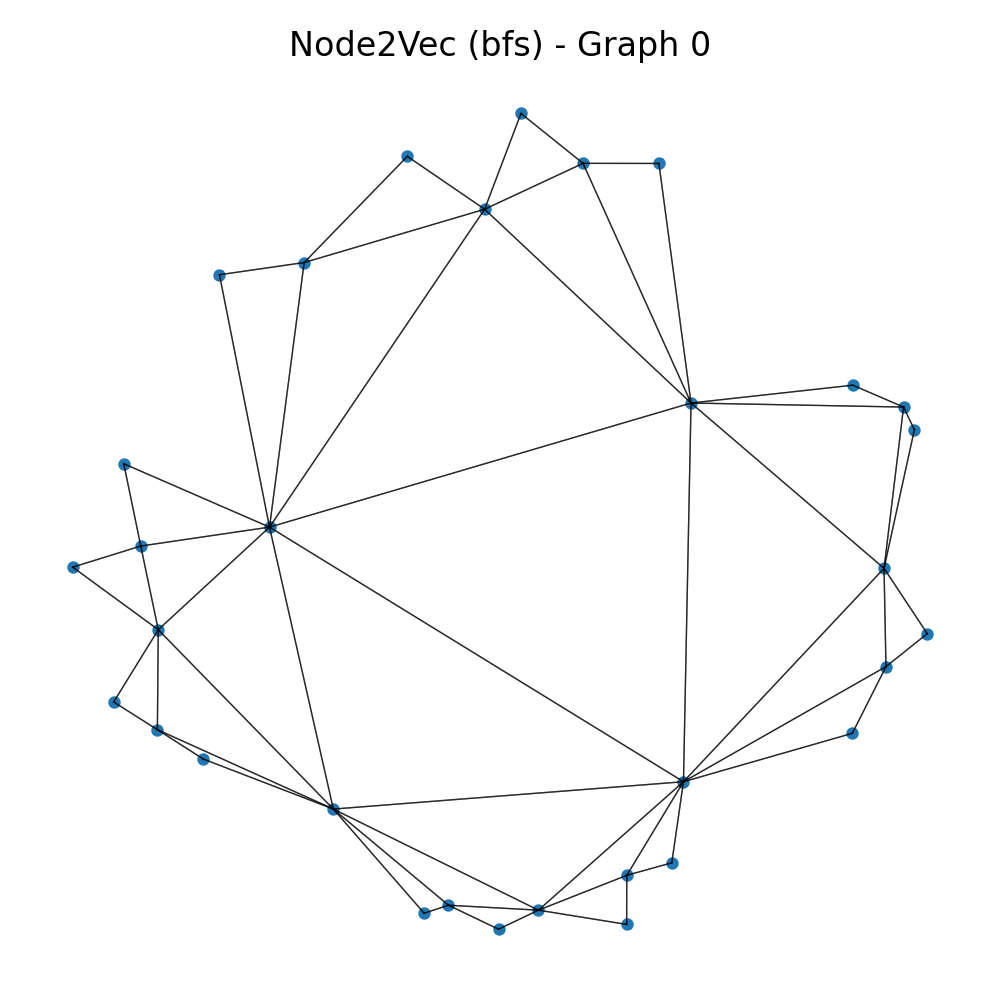
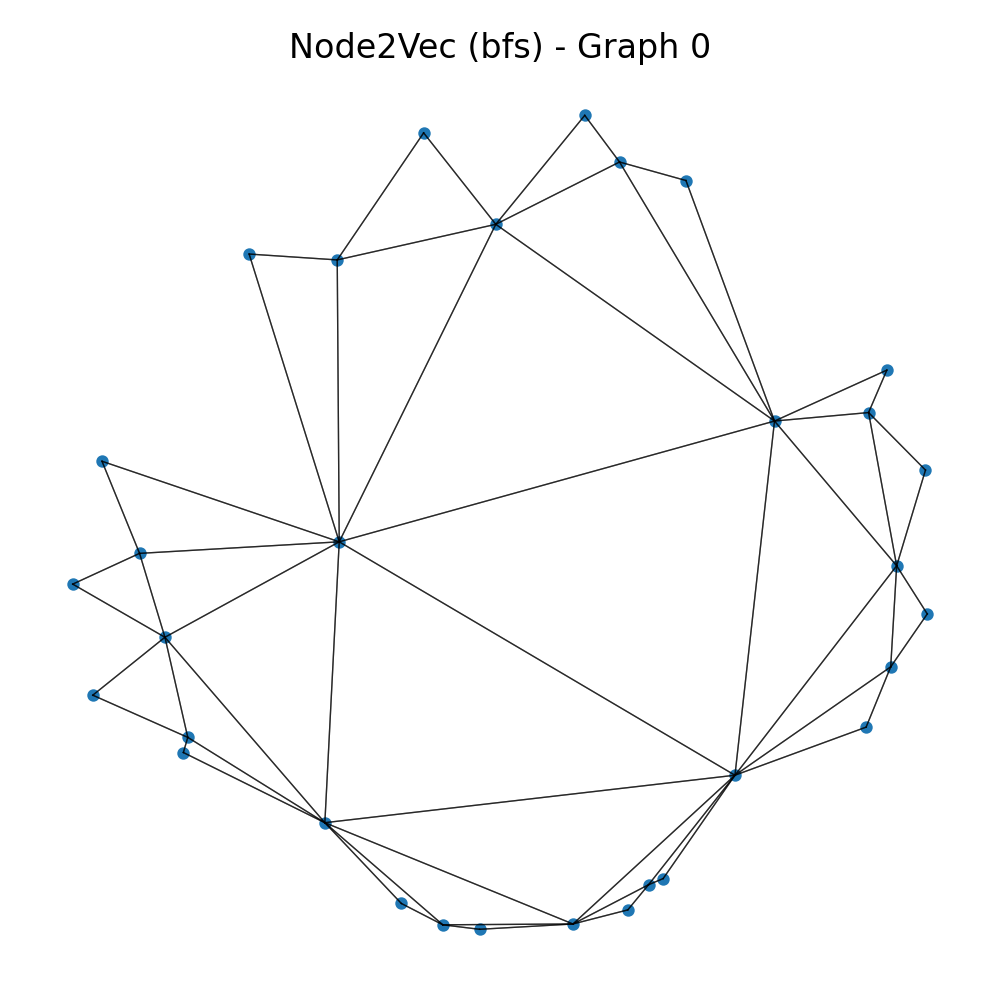
screnshot removed

diff --git a/A1.tex b/A1.tex
@@ -59,7 +59,7 @@ The code is attached in Listing 1 in the appendix.
 \section{Part B: Visualizing the graph}
 \begin{figure}[H]
     \centering
-    \includegraphics[width=1\linewidth]{Screenshot 2026-01-27 at 7.46.20 PM.png}
+    \includegraphics[width=0.85\linewidth]{karate_club_graph.png}
     \vspace{0.5em}
 
     \begin{tabular}{llll}
@@ -79,9 +79,9 @@ We take the normalized structural feature matrix from C1 and reduce it to 2D usi
 
 \begin{figure}[H]
     \centering
-    \includegraphics[width=0.75\linewidth]{Screenshot 2026-01-30 at 7.40.23 PM.png}
+    \includegraphics[width=0.75\linewidth]{structural_pca.png}
     \caption{PCA of structural features; colors indicate the node labels.}
-    \label{fig:placeholder}
+    \label{fig:struct_pca}
 \end{figure}
 
 \subsection{C3. Node classification using structural features}
@@ -106,9 +106,9 @@ We reduce the node features to 2D using PCA and color by node labels. The visual
 
 \begin{figure}[H]
     \centering
-    \includegraphics[width=0.75\linewidth]{Screenshot 2026-01-30 at 10.19.43 PM.png}
+    \includegraphics[width=0.75\linewidth]{node_features_pca.png}
     \caption{PCA of node features; colors indicate the node labels.}
-    \label{fig:placeholder}
+    \label{fig:node_feat_pca}
 \end{figure}
 
 \section{Part E: Combining structure and node features}
@@ -148,6 +148,13 @@ The implementation is shown in Listing~\ref{lst:f1}.
 \section{2. Node2Vec vs Struct2Vec on GeometricShapes}
 \subsection{Part A: Load graphs and visualize the original geometry}
 We load the GeometricShapes dataset with \texttt{FaceToEdge} to populate \texttt{edge\_index}, select three graphs (indices 0, 1, 2), and plot their original geometry using \texttt{data.pos} with edges drawn from \texttt{data.edge\_index}.
+\begin{figure}[H]
+    \centering
+    \includegraphics[width=0.32\linewidth]{geometric_shapes_graph0.png}
+    \includegraphics[width=0.32\linewidth]{geometric_shapes_graph1.png}
+    \includegraphics[width=0.32\linewidth]{geometric_shapes_graph2.png}
+    \caption{Original geometry for GeometricShapes graphs 0, 1, and 2 (left to right).}
+\end{figure}
 
 \subsection{Part B: Node2Vec embeddings and visualization}
 \subsubsection{B1. Implement biased random walks}
@@ -156,6 +163,24 @@ We implement the Node2Vec transition rule on an undirected graph and use $p=10$.
 For each node, we generate multiple walks with a fixed length of 20 (10 walks per node in our runs) to build the skip-gram training corpus.
 \subsubsection{B3. Learn embeddings}
 We train a skip-gram model with negative sampling to produce 2D embeddings ($d=2$). We run Node2Vec with two settings: BFS-like walks ($q=0.5$) and DFS-like walks ($q=5$), then plot the graph using the learned embedding coordinates and the same edges.
+\begin{figure}[H]
+    \centering
+    \includegraphics[width=0.49\linewidth]{node2vec_graph0_bfs.png}
+    \includegraphics[width=0.49\linewidth]{node2vec_graph0_dfs.png}
+    \caption{Node2Vec embeddings for graph 0 (left: BFS-like, right: DFS-like).}
+\end{figure}
+\begin{figure}[H]
+    \centering
+    \includegraphics[width=0.49\linewidth]{node2vec_graph1_bfs.png}
+    \includegraphics[width=0.49\linewidth]{node2vec_graph1_dfs.png}
+    \caption{Node2Vec embeddings for graph 1 (left: BFS-like, right: DFS-like).}
+\end{figure}
+\begin{figure}[H]
+    \centering
+    \includegraphics[width=0.49\linewidth]{node2vec_graph2_bfs.png}
+    \includegraphics[width=0.49\linewidth]{node2vec_graph2_dfs.png}
+    \caption{Node2Vec embeddings for graph 2 (left: BFS-like, right: DFS-like).}
+\end{figure}
 
 \subsection{Part C: Struct2Vec embeddings and visualization (fixed k=3)}
 \subsubsection{C1. Structural similarity function $g_k(u,v)$}
@@ -200,6 +225,8 @@ print(f"Number of node labels/classes: {dataset.num_classes}")
 
 \section{Graph Visualization Code}
 \begin{lstlisting}[language=Python,caption={Part A graph visualization}]
+import matplotlib
+matplotlib.use("Agg")
 import matplotlib.pyplot as plt
 import networkx as nx
 from torch_geometric.datasets import KarateClub
@@ -214,24 +241,35 @@ G = to_networkx(data, to_undirected=True)
 # Node colors based on labels
 labels = data.y.tolist()
 
+# Define colors to match the figure legend
+color_map = {
+    0: "#66C2A5",
+    1: "#FC8D62",
+    2: "#8DA0CB",
+    3: "#FFD92F",
+}
+node_colors = [color_map[label] for label in labels]
+
 # Draw the graph
 pos = nx.spring_layout(G, seed=42)
 plt.figure(figsize=(6, 5))
 nx.draw(
     G,
     pos,
-    node_color=labels,
-    cmap=plt.cm.Set2,
+    node_color=node_colors,
     with_labels=True,
     node_size=400,
     font_size=8,
 )
 plt.title("Karate Club Graph")
-plt.show()
+plt.tight_layout()
+plt.savefig("karate_club_graph.png", dpi=300)
 \end{lstlisting}
 
 \section{GeometricShapes Visualization Code}
 \begin{lstlisting}[language=Python,caption={GeometricShapes visualization (Part 2A)}]
+import matplotlib
+matplotlib.use("Agg")
 import matplotlib.pyplot as plt
 import numpy as np
 from torch_geometric.datasets import GeometricShapes
@@ -263,6 +301,7 @@ def plot_graph(data, idx):
 
     ax.set_title(f"GeometricShapes graph {idx}")
     ax.axis("off")
+    return fig
 
 
 # Load dataset with FaceToEdge so edge_index is populated
@@ -273,9 +312,10 @@ dataset = GeometricShapes(root="data/GeometricShapes", pre_transform=transform)
 # Pick any 3 graphs
 indices = [0, 1, 2]
 for idx in indices:
-    plot_graph(dataset[idx], idx)
-
-plt.show()
+    fig = plot_graph(dataset[idx], idx)
+    fig.tight_layout()
+    fig.savefig(f"geometric_shapes_graph{idx}.png", dpi=200)
+    plt.close(fig)
 \end{lstlisting}
 
 \section{Node2Vec (Biased Walks + Skip-gram) Code}
@@ -285,6 +325,8 @@ import numpy as np
 import torch
 import torch.nn.functional as F
 from torch import nn, optim
+import matplotlib
+matplotlib.use("Agg")
 import matplotlib.pyplot as plt
 from torch_geometric.datasets import GeometricShapes
 from torch_geometric.transforms import FaceToEdge
@@ -702,6 +744,8 @@ if __name__ == "__main__":
 \section{Structural Embeddings Visualization Code}
 \begin{lstlisting}[language=Python,caption={Part C2 PCA visualization}]
 import numpy as np
+import matplotlib
+matplotlib.use("Agg")
 import matplotlib.pyplot as plt
 import matplotlib.colors as mcolors
 from torch_geometric.datasets import KarateClub
@@ -800,7 +844,7 @@ def main():
 
     plt.tight_layout()
     plt.savefig("structural_pca.png", dpi=200)
-    plt.show()
+    plt.close()
 
 
 if __name__ == "__main__":

diff --git a/geometric_shapes_partA.py b/geometric_shapes_partA.py
@@ -1,3 +1,5 @@
+import matplotlib
+matplotlib.use("Agg")
 import matplotlib.pyplot as plt
 import numpy as np
 from torch_geometric.datasets import GeometricShapes
@@ -29,6 +31,7 @@ def plot_graph(data, idx):
 
     ax.set_title(f"GeometricShapes graph {idx}")
     ax.axis("off")
+    return fig
 
 
 # Load dataset with FaceToEdge so edge_index is populated
@@ -39,6 +42,7 @@ dataset = GeometricShapes(root="data/GeometricShapes", pre_transform=transform)
 # Pick any 3 graphs
 indices = [0, 1, 2]
 for idx in indices:
-    plot_graph(dataset[idx], idx)
-
-plt.show()
+    fig = plot_graph(dataset[idx], idx)
+    fig.tight_layout()
+    fig.savefig(f"geometric_shapes_graph{idx}.png", dpi=200)
+    plt.close(fig)

diff --git a/structural_embeddings_pca.py b/structural_embeddings_pca.py
@@ -1,4 +1,6 @@
 import numpy as np
+import matplotlib
+matplotlib.use("Agg")
 import matplotlib.pyplot as plt
 import matplotlib.colors as mcolors
 from torch_geometric.datasets import KarateClub
@@ -106,7 +108,7 @@ def main():
 
     plt.tight_layout()
     plt.savefig("structural_pca.png", dpi=200)
-    plt.show()
+    plt.close()
 
 
 if __name__ == "__main__":

diff --git a/karate_club_viz.py b/karate_club_viz.py
@@ -1,3 +1,5 @@
+import matplotlib
+matplotlib.use("Agg")
 import matplotlib.pyplot as plt
 import networkx as nx
 from torch_geometric.datasets import KarateClub
@@ -33,4 +35,5 @@ nx.draw(
     font_size=8,
 )
 plt.title("Karate Club Graph")
-plt.show()
+plt.tight_layout()
+plt.savefig("karate_club_graph.png", dpi=300)

diff --git a/node2vec_biased_walks.py b/node2vec_biased_walks.py
@@ -3,6 +3,8 @@ import numpy as np
 import torch
 import torch.nn.functional as F
 from torch import nn, optim
+import matplotlib
+matplotlib.use("Agg")
 import matplotlib.pyplot as plt
 from torch_geometric.datasets import GeometricShapes
 from torch_geometric.transforms import FaceToEdge
